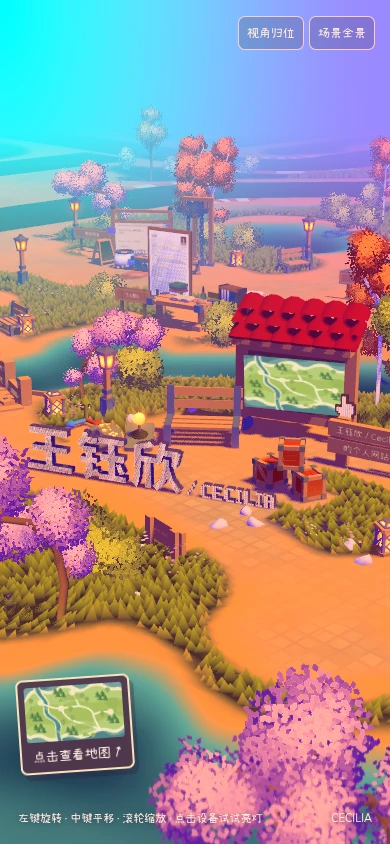
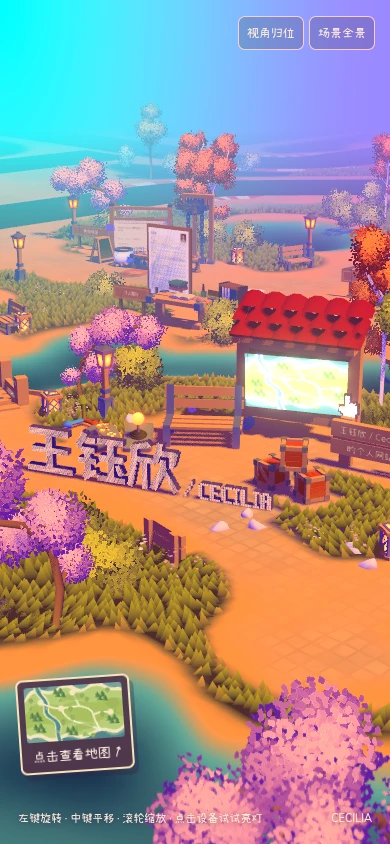
Refine compact pixel name and add one-shot map and pointer entry light

diff --git a/experiments/bruno-projects/src/scene-fixtures.js b/experiments/bruno-projects/src/scene-fixtures.js
@@ -337,10 +337,20 @@ export function createFixtures(world) {
       ctx.font = '700 48px "Scene Sans"';
       ctx.textBaseline = "top";
       ctx.fillText(char, 2, 0);
+      if(char==="欣"){
+        // Keep the existing glyph's top and radicals; replace only its three
+        // descending strokes with straight, constant-direction pixel cuts.
+        ctx.clearRect(0,22,13,25);
+        ctx.clearRect(23,23,29,24);
+        const stroke=points=>{ctx.beginPath();points.forEach(([x,y],i)=>i?ctx.lineTo(x,y):ctx.moveTo(x,y));ctx.closePath();ctx.fill();};
+        stroke([[6,22],[12,22],[7,45],[2,43]]);
+        stroke([[33,23],[39,23],[29,45],[23,43]]);
+        stroke([[35,28],[39,26],[49,42],[45,45]]);
+      }
       const data = ctx.getImageData(0, 0, 56, 56).data;
       for (let y = 0; y < 52; y++) for (let x = 0; x < 52; x++)
         if (data[(y * 56 + x) * 4 + 3] > 150) pixels.push([offset + x, 51 - y]);
-      offset += 52;
+      offset += 49;
     }
     const alphabet = {
       C: ["01111","11000","11000","11000","11000","11000","01111"],
@@ -359,26 +369,27 @@ export function createFixtures(world) {
       glyph.forEach((row, y) => [...row].forEach((on, x) => {
         if (on === "1")caption.push([captionOffset+x,6-y]);
       }));
-      captionOffset += glyph[0].length+1;
+      captionOffset += glyph[0].length+.55;
     }
     // Actual individual cubes: pale front (+Z), purple sides and backs.
     const frontPower = uniform(1);
     const front = material({colorNode:color(colors.cream).mul(frontPower),hasWater:false});
     const sides = [materials.purple, materials.purple, materials.purple, materials.purple, front, materials.purple];
     const overallScale=1.12;
-    const chineseCell=cell*1.1/2*1.15*overallScale,captionCell=.045*1.15*1.1*1.3*overallScale;
+    const chineseCell=cell*1.1/2*1.15*overallScale,captionCell=.045*1.15*1.1*1.3*overallScale*1.05;
+    const captionStretch=1.13;
     const minX=Math.min(...pixels.map(p=>p[0]))*chineseCell-chineseCell/2;
     const chineseRight=Math.max(...pixels.map(p=>p[0]))*chineseCell+chineseCell/2;
-    const captionStart=chineseRight+.24*1.15*overallScale,captionRight=captionStart+(captionOffset-1)*captionCell;
+    const captionStart=chineseRight+.24*1.15*overallScale,captionRight=captionStart+(Math.max(...caption.map(p=>p[0]))+.5)*captionCell;
     const centerX=(minX+captionRight)/2,minY=Math.min(...pixels.map(p=>p[1]));
-    function blocks(points,size,name,xOffset=0,yOffset=0){
-      const mesh=new T.InstancedMesh(new T.BoxGeometry(size*.88,size*.88,(name==='voxel-name-caption'?.15*1.1*1.3:.27)*1.15*overallScale),sides,points.length),matrix=new T.Matrix4();
+    function blocks(points,size,name,xOffset=0,yOffset=0,yStretch=1){
+      const mesh=new T.InstancedMesh(new T.BoxGeometry(size*.88,size*.88*yStretch,(name==='voxel-name-caption'?.15*1.1*1.3*1.05:.27)*1.15*overallScale),sides,points.length),matrix=new T.Matrix4();
       mesh.name=name;mesh.castShadow=mesh.receiveShadow=true;
-      points.forEach(([x,y],i)=>mesh.setMatrixAt(i,matrix.makeTranslation(x*size+xOffset-centerX,(y+yOffset+.5)*size,0)));
+      points.forEach(([x,y],i)=>mesh.setMatrixAt(i,matrix.makeTranslation(x*size+xOffset-centerX,(y+yOffset+.5)*size*yStretch,0)));
       mesh.instanceMatrix.needsUpdate=true;mesh.computeBoundingBox();root.add(mesh);return mesh;
     }
     blocks(pixels,chineseCell,"voxel-name-blocks",0,-minY);
-    blocks(caption,captionCell,"voxel-name-caption",captionStart);
+    blocks(caption,captionCell,"voxel-name-caption",captionStart,0,captionStretch);
     root.rotation.y = Math.PI / 7.2;
     const localWidth=captionRight-minX;
     parcel(root, 43, 42.5, 1, { plaza: true, radius: 1, prepared: true,
@@ -386,8 +397,11 @@ export function createFixtures(world) {
     root.userData.text = "王钰欣 / CECILIA";
     root.userData.blockCount = chineseCount+caption.length;
     root.userData.glyphResolution=56;
-    root.userData.chineseAdvance=52;
-    root.userData.captionRatio=captionCell*7/((Math.max(...pixels.map(p=>p[1]))-minY+1)*chineseCell);
+    root.userData.chineseAdvance=49;
+    root.userData.angularGlyph="欣";
+    root.userData.captionStretch=captionStretch;
+    root.userData.captionLetterGap=.55;
+    root.userData.captionRatio=captionCell*7*captionStretch/((Math.max(...pixels.map(p=>p[1]))-minY+1)*chineseCell);
     root.userData.lightOn = false;
     root.toggleLight = () => {
       root.userData.lightOn = !root.userData.lightOn;

diff --git a/experiments/bruno-projects/src/hub.js b/experiments/bruno-projects/src/hub.js
@@ -310,7 +310,7 @@ try {
   const entranceBench=scene.getObjectByName("benchPhysicalDynamic001");
   fixtures.parcel(entranceBench,40.6,37.15,1.6,{plaza:true,radius:0,precise:true,hull:true});
   const crates = fixtures.nativeCrates();
-  let effectTime=0, mapFlashAt=-100;
+  let effectTime=0, mapFlashAt=-100, entryFlashPending=true;
   const mapBrightness=uniform(1);
   const career = original.getObjectByName("career").clone(true);
   career.getObjectByName("refYear")?.removeFromParent();
@@ -688,6 +688,14 @@ try {
       world.renderCount=(world.renderCount||0)+1;
       document.body.dataset.ready = "true";
       $("loading").hidden = true;
+      if(entryFlashPending){
+        entryFlashPending=false;
+        if(place==="home"){
+          // Reveal first, then cue the map and its hand together exactly once.
+          mapFlashAt=effectTime+.18;
+          kioskRoot.userData.entryFlashAt=mapFlashAt;
+        }
+      }
     } catch (error) {
       renderer.setAnimationLoop(null);
       fail(error);
@@ -708,6 +716,7 @@ try {
     placements: fixtures.placements,
     get landingView(){return landingView;},
     updateEffects,
+    get effectTime(){return effectTime;},
     viewState:()=>({look:currentLook.toArray(),target:targetLook.toArray(),yaw,pitch,distance:currentDistance,fov:camera.fov}),
     go,
     openCurrent,

diff --git a/README.md b/README.md
@@ -11,6 +11,7 @@
 - QA：`tests/design-world.cjs`、`tests/portfolio-routing.cjs`、`tests/bruno-preview.cjs`、`tests/bruno-animation.cjs`。真实截图在 `experiments/bruno-projects/public/review/`。
 - 联系方式整组位于入口右侧的原键盘空地，信箱字面与呼吸圆环可直接写邮件；平面地图同步新落点，姓名入口可回到原始镜头。红屋顶地图牌缩小 15% 并按实际双脚落地，欢迎牌保留原比例和位置，两行小赖文字限制在木板内。姓名使用 56 像素采样方块，提高笔画间隙；风场与原生叶簇摆动共用日间渲染，补充粉色植被。`tests/contact-clearing.cjs` 校验迁移、模型碰撞、字面边界、风动和地图返回。
 - 植被补全：接入原版 `Flowers` 模块的八片花瓣与花丛分布资源，补充粉色／浅色花丛；树木及灌木显示范围扩大到 72 单位，按模型所在区域避让，入口补充原生粉色树。姓名组合再放大 12%，英文额外放大 30%，中文字进位从 58 收紧至 52；信箱字面透明，不再绘制矩形边框。原始花丛资源的 SHA-256 记于 `public/bruno/manifest.json`。
+- 入口字形微调：中文进位进一步收紧至 49，“欣”的下行笔画改成直斜线；`/ CECILIA` 再放大 5%、纵向拉伸 13%，字母间距从 1 格收紧为 0.55 格。首页首帧成功显示后，地图牌和像素小手同步自动亮一次，随后恢复原状，原开关点击亮灯保留。`tests/landing-controls.cjs` 同时验证无点击开场亮灯与后续手动交互；真实截图为 `public/review/entry-map-intro.webp`。
 
 ## 历史小岛实现（已不作为入口）
 
